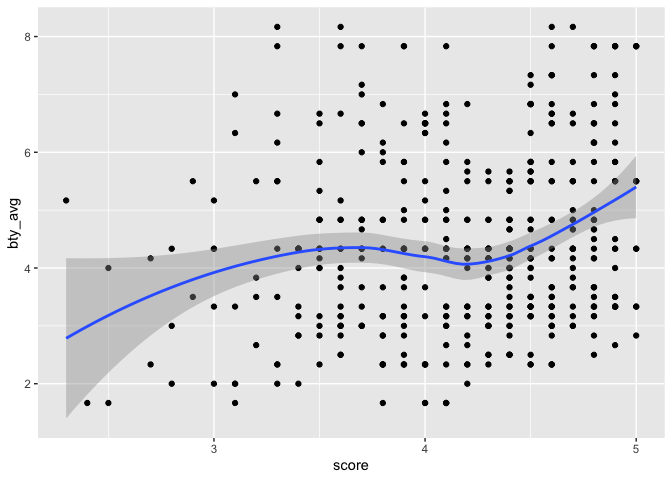
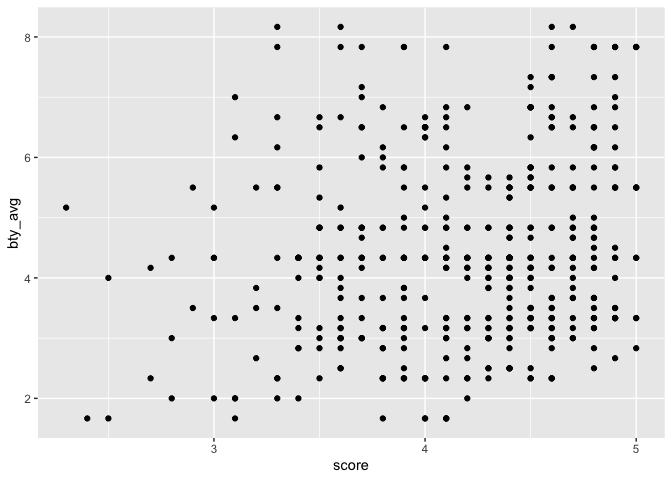
Exercise 3 complete

diff --git a/Lab-09.md b/Lab-09.md
@@ -78,11 +78,8 @@ on the professor.
 
 ``` r
 evals %>% ggplot(aes(x = score, y = bty_avg)) + 
-  geom_point() + 
-  geom_smooth()
+  geom_point() 
 ```
-
-    ## `geom_smooth()` using method = 'loess' and formula = 'y ~ x'
 
 ![](Lab-09_files/figure-gfm/score%20&%20bty_avg-1.png)<!-- -->
 
@@ -96,3 +93,21 @@ cor(evals$score,evals$bty_avg)
     ## [1] 0.1871424
 
 Sure enough. The correlation is very small.
+
+### Exercise 3
+
+``` r
+evals %>% ggplot(aes(x = score, y = bty_avg)) + 
+  geom_jitter() 
+```
+
+![](Lab-09_files/figure-gfm/geom_jitter-1.png)<!-- -->
+
+Jitter here is adding a little bit of random variation to the location
+of each point. This helps in that the initial plot isn’t doing this
+because the score variable is a discrete variable. What’s misleading
+about the initial plot is that it assumes that there is no random
+variation when someone gives one particular score. Just because someone
+may give a score of 4 doesn’t mean that their following the same
+criteria as someone else also giving that 4. Everyone gives that 4 for
+slightly different reasons. Jitter helps to communicate this.
